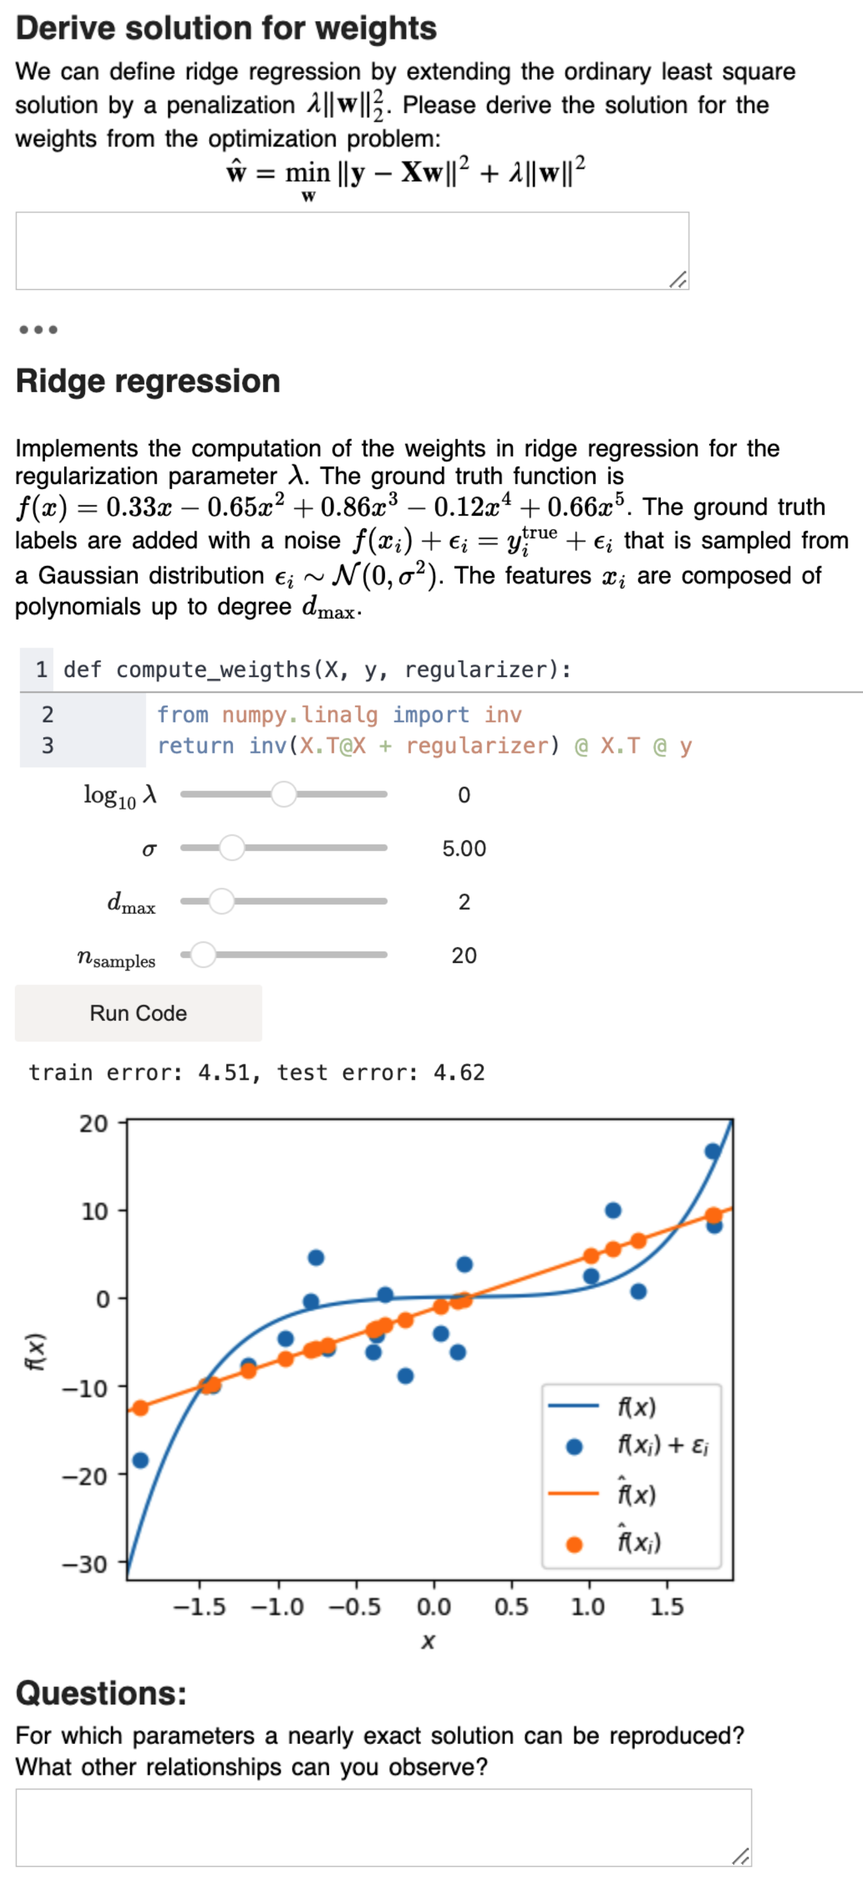
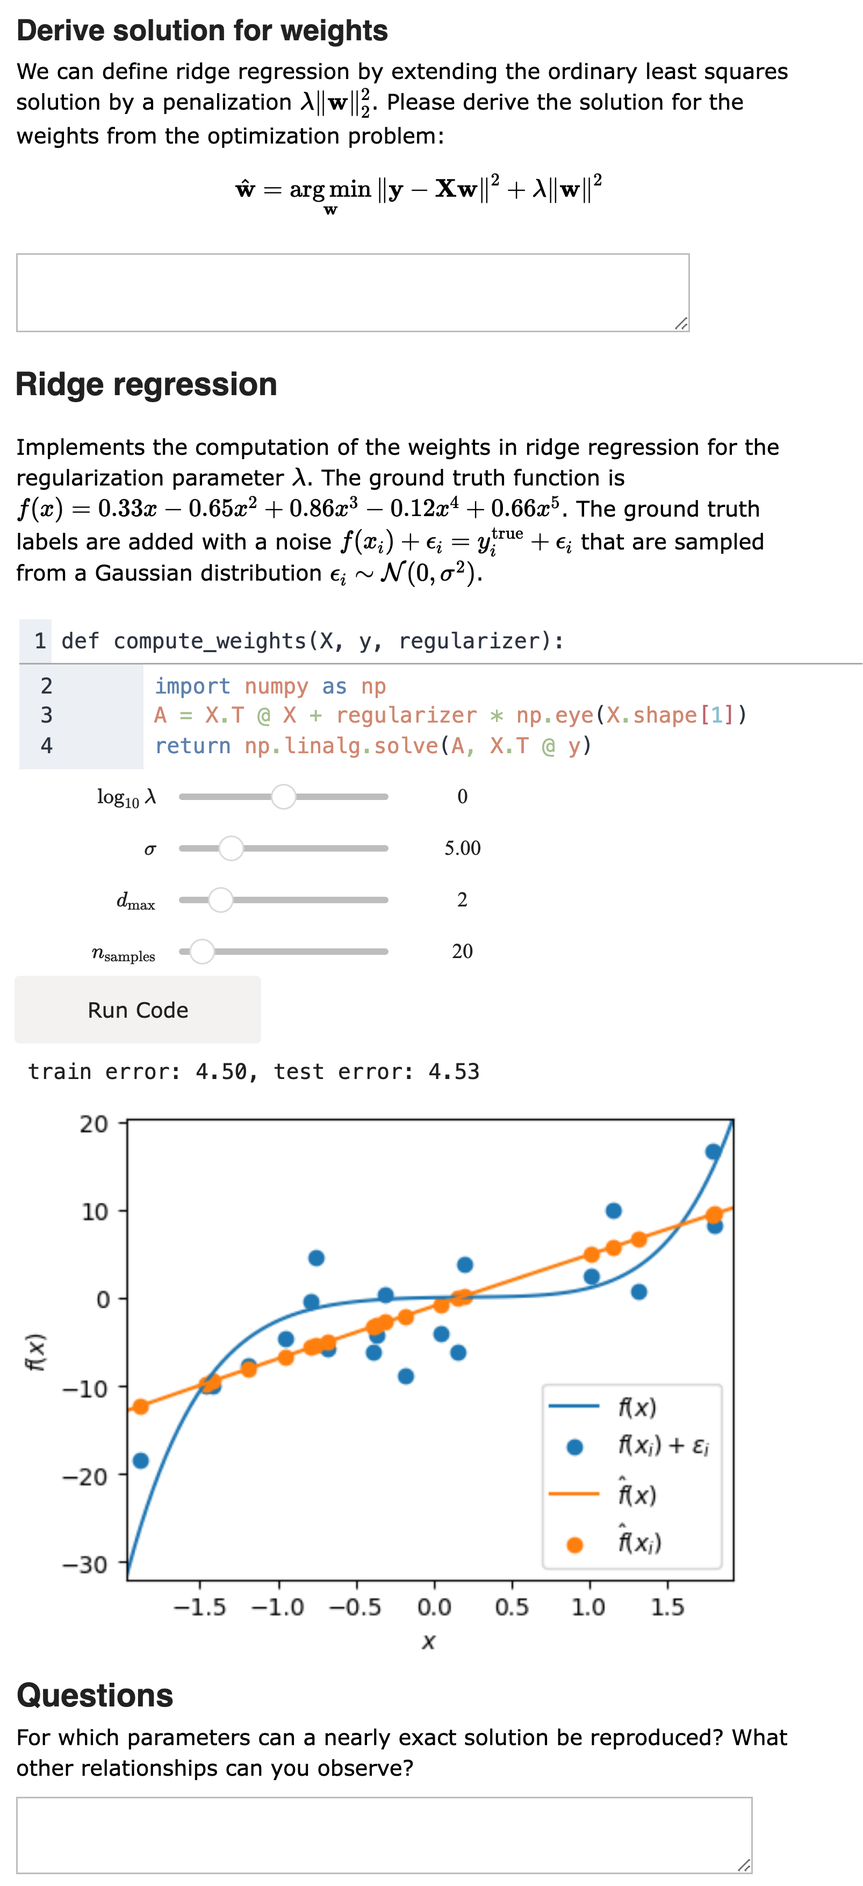
Final proof read revision (#138)

diff --git a/paper.md b/paper.md
@@ -48,34 +48,34 @@ colorlinks: true
 
 "Computational experiments" use code and interactive visualizations to convey mathematical and physical concepts in an intuitive way, and are increasingly used to support *ex cathedra* lecturing in scientific and engineering disciplines.
 Jupyter notebooks are particularly well-suited to implement them, but involve large amounts of ancillary code to process data and generate illustrations, which can distract students from the core learning outcomes. 
-For a more engaging learning experience that only exposes relevant code to students---allowing them to focus on the interplay between code, theory and physical insights---we developed `scicode-widgets` (released as scwidgets), a Python package to build Jupyter-based applications. 
-The package facilitates the creation of interactive exercises and demonstrations for students in any discipline in science, technology and engineering.
+For a more engaging learning experience that only exposes relevant code to students---allowing them to focus on the interplay between code, theory, and physical insights---we developed `scicode-widgets` (released as scwidgets), a Python package to build Jupyter-based applications.
+The package facilitates the creation of interactive exercises and demonstrations for students in any discipline in science, technology, and engineering.
 Students are asked to provide pedagogically meaningful contributions in terms of theoretical understanding, coding ability, and analytical skills.
 The library provides the tools to connect custom pre- and post-processing of students' code, which runs seamlessly "behind the scenes", with the ability to test and verify the solution, as well as to convert it into live interactive visualizations driven by Jupyter widgets.
 
 # Statement of need
 
-This work introduces scicode-widgets, an open-source Python library that transforms Jupyter notebooks into interactive, self-contained learning applications. By hiding boilerplate code behind a clean widget interface, it allows students to focus on core physics concepts, algorithms, and data analysis with instant visual feedback. The widget configuration is fully implemented in Python, enabling flexible creation of diverse teaching exercises—particularly valuable for the research community, given Python’s widespread use in academic, educational, and research settings.
+This work introduces `scicode-widgets`, an open-source Python library that transforms Jupyter notebooks into interactive, self-contained learning applications. By hiding boilerplate code behind a clean widget interface, it allows students to focus on core physics concepts, algorithms, and data analysis with instant visual feedback. The widget configuration is fully implemented in Python, enabling flexible creation of diverse teaching exercises—particularly valuable for the research community, given Python’s widespread use in academic, educational, and research settings.
 
-We demonstrate its educational value through a ridge regression exercise that combines interactive code input, real-time controls, and automated visual feedback supported by a color-coded cue system. Used in one undergraduate course at EPFL (MSE-305), the tool has already supported nearly 100 students and received highly positive feedback.
+We demonstrate its educational value through a ridge regression exercise that combines interactive code input, real-time controls, and automated visual feedback supported by a color-coded cue system. The tool has been used by nearly 100 students in an undergraduate course at EPFL (MSE-305) and was refined based on student feedback.
 
 # State of the field
 
 Jupyter notebooks [@jupyter] have been used extensively for the creation
-of educational contents, with applications in
+of educational content, with applications in
 chemistry [@notebooks-in-chemistry],
-physics [@notebooks-in-physics; @urcelay-olabarria_jupyter_2017; @tufino_using_2025]
+physics [@notebooks-in-physics; @urcelay-olabarria_jupyter_2017; @tufino_using_2025],
 and mathematics [@notebooks-in-mathematics]. The cell-based structure of
 the notebook supports conveying the teaching material in smaller units
 that can be connected in a sequential coherent narrative, thereby
 facilitating learning [@jupyter-narrative]. In addition to bare
 notebooks, custom Jupyter widgets have been developed both in research
 contexts [@aiidalab] and in educational contexts to create virtual lab
-applications, e.g., allowing students to explore the experimental
+applications, e.g., allowing students to explore the relevant
 parameter space
 interactively [@sutchenkov2020active; @du2023osscar; @du2024widget] or
 simply serving as a replacement for a hands-on lab
-experience [@vrl-survey]. Indeed, studies in control education have
+experience [@vrl-survey]. Indeed, studies in control engineering education have
 observed that these learning experiences can reach a similar
 effectiveness as their hands-on counterparts [@vrl-survey]. These
 examples usually focus on conveying the interaction between theory and
@@ -84,8 +84,8 @@ create and design these computational experiments, a skill that is
 becoming more essential for all fields of computational science.
 Although related skills are taught in separate courses, the interplay of
 theoretical understanding, algorithmic design, and interpretation of the
-results is typically only taught in more advanced courses. A crucial
-contributing factor to its late introduction in the curriculum is the
+results is typically only taught in more advanced classes. A crucial
+contributing factor to the late introduction in the curriculum is the
 amount of boilerplate code that needs to be written to process and
 visualize the data, together with the amount of time needed to get
 acquainted with the domain-specific tools that help with this kind of
@@ -95,7 +95,7 @@ by ancillary code that does not contribute to the core learning
 outcomes. In addition, for an interactive experience, computational
 experiments need to be rerun frequently to assess the results under
 different conditions. While parameters in a notebook cell can be changed
-and rerun, it still adds friction to the experience of students if
+and simulations can be rerun, it still adds friction to the experience of students if
 multiple actions are required to rerun an experiment (such as changing
 values in several cells and rerunning them in a specific order). Due to
 these aspects, learning is hindered by having to perform repetitive
@@ -108,10 +108,10 @@ code, parameters, and results (such as interactive plots) to students,
 while hiding the unnecessary details in the background, thus helping
 them focus first on the core scientific and computational concepts.
 
-![An example of how the coding environment, the parameter panel and the
+![An example of how the coding environment, the parameter panel, and the
 visualization of an interactive exercise widget are defined by the
 teacher (top) and how they are visualized by the corresponding widgets
-(bottom).](fig1.pdf){#fig:exercise-code width="49%"}
+(bottom).](fig1.png){#fig:exercise-code width="49%"}
 
 # Computational Experiments
 
@@ -123,18 +123,18 @@ the bottom part of Fig. [1](#fig:exercise-code){reference-type="ref"
 reference="fig:exercise-code"}: A coding environment (red) in which
 students can implement the algorithm derived from the provided theory, a
 panel of parameters (purple) where students can manipulate the
-experimental settings, and a visualization (green) that is generated
-from the code of the students utilizing the experimental settings
+input settings, and a visualization (green) that is generated
+from the code of the students utilizing the settings
 specified in the parameter panel. To provide full flexibility in the
 creation of an exercise, the teacher implements a function (orange box
 in the upper panel of Fig. [1](#fig:exercise-code){reference-type="ref"
 reference="fig:exercise-code"}) that defines the logic to process the
 parameters specified in the parameters panel, and to input these as
 arguments to the code supplied by the students, along with functionality
-to visualize the results of the code execution, e.g. in
+to visualize the results of the code execution, e.g., in
 Fig. [1](#fig:exercise-code){reference-type="ref"
 reference="fig:exercise-code"} in the form of a plot. This process
-function is then executed by a click of the "Run code" button (marked in
+function is then executed by a click of the "Run Code" button (marked in
 orange in the bottom panel of
 Fig. [1](#fig:exercise-code){reference-type="ref"
 reference="fig:exercise-code"}). Alternatively, the code exercise can be
@@ -146,15 +146,15 @@ helps the student focus on pedagogically meaningful elements.
 
 ![Examples of the check functionality. Each check is framed with the
 same color as its corresponding output. The purple check verifies the
-built-in Python type, shape and value closeness between the output of
+built-in Python type, shape, and value closeness between the output of
 the students' code and some reference output provided by the teacher.
 The blue check verifies the periodicity of the function provided by the
 students, i.e., $\sin(0) = \sin(2\pi)$. The yellow-green check uses a
-fingerprint function, demonstrating how to prevent disclosing the
+fingerprint function, demonstrating how to reduce disclosure of the
 reference output to the students. For instance, in this example only the
 sum of the values of the function on a specified grid of $x$ values
 (here only composed of three points for illustrative purposes) is
-checked against a reference value.](fig2.pdf){#fig:check-code
+checked against a reference value.](fig2.png){#fig:check-code
 width="49%"}
 
 ## Check solutions
@@ -169,21 +169,22 @@ equality checks, as well as shape and numerical closeness checks for
 `numpy` arrays. These checks work as unit tests, validating the output
 of the code of the students for a set of input and reference values
 provided by the teacher. The instructor can also create checks that
-validate specific functional behavior, e.g. periodicity for
+validate specific functional behavior, e.g., periodicity for
 trigonometric functions (for an example, see the check framed by a blue
 box in Fig. [2](#fig:check-code){reference-type="ref"
 reference="fig:check-code"}). One noteworthy point is that, for certain
 exercises, the reference values can contain hints of the solution, which
-can be exploited by students to solve the exercise. As the reference
+can be exploited by students to "reverse engineer" the correct answer. As the reference
 values need to be part of the notebook, they cannot be safely hidden
 from the students. The library therefore provides an option to pass a
-one-way function, analogous to a hashing or fingerprint function, that
-post-processes the output before the check is run. Since no inference
-can be made once the output is processed through a one-way function, the
-reference values of the checks do not reveal any information about the
-actual solution of the exercise. This fingerprint function depends
-highly on the domain and therefore needs to be provided by the
-instructor. Nevertheless, the library exposes a simple interface to
+fingerprint function that post-processes the output before the check is
+run. Comparing fingerprints instead of full reference outputs reduces
+direct disclosure of the expected solution. However, fingerprints may
+reveal partial information or admit collisions; for example, summing
+outputs reveals an aggregate value and is not a cryptographic hash.
+These checks provide pedagogical feedback, not a security guarantee.
+The fingerprint function depends highly on the domain and therefore
+needs to be provided by the instructor. Nevertheless, the library exposes a simple interface to
 facilitate providing such checks. An example of a check using the
 fingerprint functionality can be seen in
 Fig. [2](#fig:check-code){reference-type="ref"
@@ -192,16 +193,16 @@ reference="fig:check-code"}, framed by a yellow-green box.
 ![An example of how the cue system works, showing a sequence of widget
 interactions. Panel a) shows both blue and red cues active, resulting
 for instance from a previous change by the student of both the code and
-the value of the $x$ parameter, without yet having rerun neither the
-code (to update the visualization) nor the checks. From a) to b) the
+the value of the $x$ parameter, without yet having rerun either the
+code (to update the visualization) or the checks. From a) to b) the
 "Check Code" button is pressed, removing the blue cues from the button
 and the code input (but keeping the red cues, as the code has not been
-rerun yet, and thus any related visualization are not yet updated). From
+rerun yet, and thus any related visualizations are not yet updated). From
 a) to c) the "Run Code" button is pressed, removing the red cues from
-the code input, the parameter panel and the button (but keeping the blue
+the code input, the parameter panel, and the button (but keeping the blue
 cues, as the checks have not been run yet). From c) to d) the parameter
 $x$ is changed, resulting in a new red cue both on the parameter panel
-and the button.](fig3.pdf){#fig:cue-system width="50%"}
+and the button.](fig3.png){#fig:cue-system width="50%"}
 
 ## Cues for readability
 
@@ -214,7 +215,7 @@ therefore implemented a cue system that highlights the parts of the
 widget application that were modified since the last update and thus
 need to be rerun. When a student modifies an input in the widget, the
 system highlights the affected part with vertical bars of different
-colors -- referred to as a "cues" -- depending on the corresponding
+colors---referred to as "cues"---depending on the corresponding
 needed action: blue for checking, and red for running the code. This
 indicates that the corresponding output is outdated and immediately
 visualizes which inputs have been changed. An example of several
@@ -228,8 +229,8 @@ more dynamic learning process.
 # Learning ridge regression through an interactive notebook
 
 ![An example notebook covering the topic of ridge regression, divided
-into exercises demanding mathematical coding and analytical skills. It
-includes both our exercise widget and free-text boxes for answering
+into exercises demanding mathematical, coding, and analytical skills. It
+includes both an exercise widget and free-text boxes for answering
 questions. Even just generating this simple plot requires more than $30$
 lines of Python code. Thanks to `scicode-widgets`, this code is hidden
 from students, so that they can instead focus on understanding the core
@@ -256,7 +257,9 @@ the problem lies. While the instructor could provide explicit checks so
 that students can validate their solution, a more engaging learning
 experience is created by providing hints on how to use the visualization
 for validation. Students could then for instance reason that, when the
-noise and regularization strength are very small, the solution of ridge
+noise and regularization strength are very small and the fitted polynomial
+degree is at least that of the ground-truth function ($d_\text{max} \geq 5$ in
+this example), the solution of ridge
 regression approaches the exact solution, which is clearly illustrated
 in the plot produced by the widget app. The instructor could help focus
 students' attention by hinting at this fact with a question of the form
@@ -264,13 +267,13 @@ students' attention by hinting at this fact with a question of the form
 observe this with your code?", thereby provoking the train of thought to
 use this as a validation. Such an experience teaches students to find
 mistakes in complex processes, requiring them to systematically exclude
-parts by validating their correctness and identify the parts that are
+parts by validating their correctness and to identify the parts that are
 relevant for investigation.
 
 ## Observe relationships through interactivity
 
 After implementing the code, students can directly proceed with
-experimental observations. The plot in
+their observations. The plot in
 Fig. [4](#fig:ridge){reference-type="ref" reference="fig:ridge"} shows
 the ground truth function $f$, the data points with noise
 $f(x_i) + \epsilon_i$, and the predicted function $\hat{f}(x)$. First,
@@ -279,7 +282,7 @@ plot) effectively communicates to students the impact of each parameter
 on a visual level. Second, through the manipulation of the parameters,
 students can analyze their relationship, e.g., how the regularization
 strength $\lambda$ and the number of data points $n_\text{samples}$
-affect the test error for different degrees of the polynomial function
+affect the test error for different maximum polynomial degrees
 $d_\text{max}$ used for fitting. While this is typically a challenging
 task, as it requires exploring the interplay of four parameters, the
 corresponding plot provides students with direct feedback (and the
@@ -290,16 +293,16 @@ questions).
 
 `scicode-widgets` depends on several external libraries that implement
 the widgets used as components in the applications. In addition to the
-package `ipywidgets`, that provides most of the standard widgets used
-for the applications, the coding environment relies on our package
+package `ipywidgets`, which provides most of the standard widgets used
+for the applications, the coding environment relies on the package
 `widget-code-input`, providing the editable text box where students can
 input their code, where the function signature (and possibly function
-documentation in the format of a standard Python \"docstring\") are
+documentation in the format of a standard Python `docstring`) is
 hardcoded and read-only (see its appearance in
 Figs. [1](#fig:exercise-code){reference-type="ref"
 reference="fig:exercise-code"},
 [2](#fig:check-code){reference-type="ref" reference="fig:check-code"},
-[3](#fig:cue-system){reference-type="ref" reference="fig:cue-system"}
+[3](#fig:cue-system){reference-type="ref" reference="fig:cue-system"},
 and [4](#fig:ridge){reference-type="ref" reference="fig:ridge"}). While
 this widget might seem redundant, as notebook cells already allow
 students to edit code, it becomes essential when our widgets are
@@ -319,9 +322,9 @@ blocks provided by its dependencies. In comparison to a two-language
 solution that would use JavaScript for the frontend combined with a
 Python interface for the code, this design choice has the advantage that
 the library is easier to maintain, as well as being accessible to a
-broader range of teaching instructors for code adaption, given Python's
-position as one of the most commonly used languages in an academic,
-education and research setting. In the following, we further discuss in
+broader range of teaching instructors for code adaptation, given Python's
+position as one of the most commonly used languages in academic,
+educational, and research settings. In the following, we further discuss in
 more detail some of the technical challenges that we encountered during
 the development and the solutions we implemented.
 
@@ -329,13 +332,13 @@ the development and the solutions we implemented.
 
 The exercise widget app is modular, allowing flexible initialization
 with only the components needed for a given use case. For example, the
-parameter box can be disabled in fixed experimental settings. The
+parameter box can be disabled in settings with fixed inputs. The
 initialization process needs to handle several cases, which complicates
-the logic. To reduce the code redundancy, the logic for the system is
-handled in dedicated "cue widgets", that activate the appropriate visual
-cue when it observes a change in one of the traits [@traitlets] in a
+the logic. To reduce code redundancy, the logic for the cue system is
+handled in dedicated "cue widgets", which activate the appropriate visual
+cue when they observe a change in one of the traits [@traitlets] in a
 list of widgets provided on initialization (i.e., in any of the other
-widgets that it observes for change). For the majority of the cueing, we
+widgets they observe for changes). For the majority of the cueing, we
 use a `cue box` that wraps around an existing widget to highlight it
 around the edges. The behavioral change when a widget is cued is defined
 in a CSS file to allow for customization by the teaching instructor
@@ -360,7 +363,7 @@ static widget state, including the solutions provided by the students.
 To solve this issue, we implemented a custom saving mechanism for the
 exercise widgets, which stores both the code and the parameter values in
 a JavaScript Object Notation (JSON) file. The logic responsible for
-storing and loading the answers is in the exercise manager Python class,
+storing and loading the answers is in the `ExerciseRegistry` Python class,
 which retrieves the answer of an exercise widget.
 
 ## Testing of the user interface
@@ -369,11 +372,11 @@ For an effective teaching experience, the robustness of the exercise
 application is essential. Indeed, the students are already required to
 consider errors in their understanding of the theory, the code, and
 interpretation of results. Adding failure of the widgets on top of these
-hurdles would affect very negatively the teaching experience. We
+hurdles would very negatively affect the teaching experience. We
 therefore test the user interface of the exercise application
 extensively within a unit test framework, using the package
 `selenium` [@selenium], which allows us to simulate realistic user
-interactions (e.g. typing on the keyboard or clicking with the mouse)
+interactions (e.g., typing on the keyboard or clicking with the mouse)
 via the web browser, and test the graphical output of the application.
 
 # Research impact statement
@@ -384,11 +387,11 @@ an engaging learning experience for students. The creation of the widget
 application leaves enough room for flexibility to implement arbitrary
 logic for processing the student code, while taking care of the widget
 logic for the teaching instructor. This allows the teaching instructor
-to let arbitrary pre- and postprocessing of the student code happen
+to let arbitrary pre- and post-processing of the student code happen
 "behind the scenes", so that students can fully focus on the main
 learning goal. We demonstrated the usage of `scicode-widgets` for
 teaching ridge regression, showing how the interactivity of the widgets
-enables seamless transitions between theory, code and analysis,
+enables seamless transitions between theory, code, and analysis,
 resulting in interactions that would not occur as easily without them.
 `scicode-widgets` supports the most recent JupyterLab [@jupyterlab]
 version (version 4 at the point of writing) and can be easily installed
@@ -407,8 +410,11 @@ repository [@iam-notebooks].
 
 # AI usage disclosure
 
-No AI tools were used for the development of the package `scicode-widgets`
-or to write this manuscript.
+AI tools were used to assist with proofreading and editorial revisions to this
+manuscript, including typography, grammar, and reference formatting, and to assist
+with corrections to the supplementary figure notebook and figure regeneration. The authors
+reviewed and approved the resulting changes. No AI tools were used to develop
+the `scicode-widgets` package.
 
 # Acknowledgements
 
@@ -420,9 +426,9 @@ Competence in Research, funded by the Swiss National Science Foundation
 dissemination activities. A.G. and G.P. acknowledge funding by the
 SwissTwins project, funded by the Swiss State Secretariat for Education,
 Research and Innovation (SERI). M.C. and D.S. acknowledge funding from
-the European Research Council (ERC) under the research and innovation
-program (Grant Agreement No. 101001890-FIAMMA). We acknowledge useful
+the European Research Council (ERC) under the European Union's Horizon 2020
+research and innovation programme (grant agreement No. 101001890). We acknowledge useful
 discussions and feedback from Cécile Hardebolle and the students of the
-EPFL MSE-305 course -- especially those of the academic year 2021-2022.
+EPFL MSE-305 course---especially those of the academic year 2021–2022.
 
 # References
